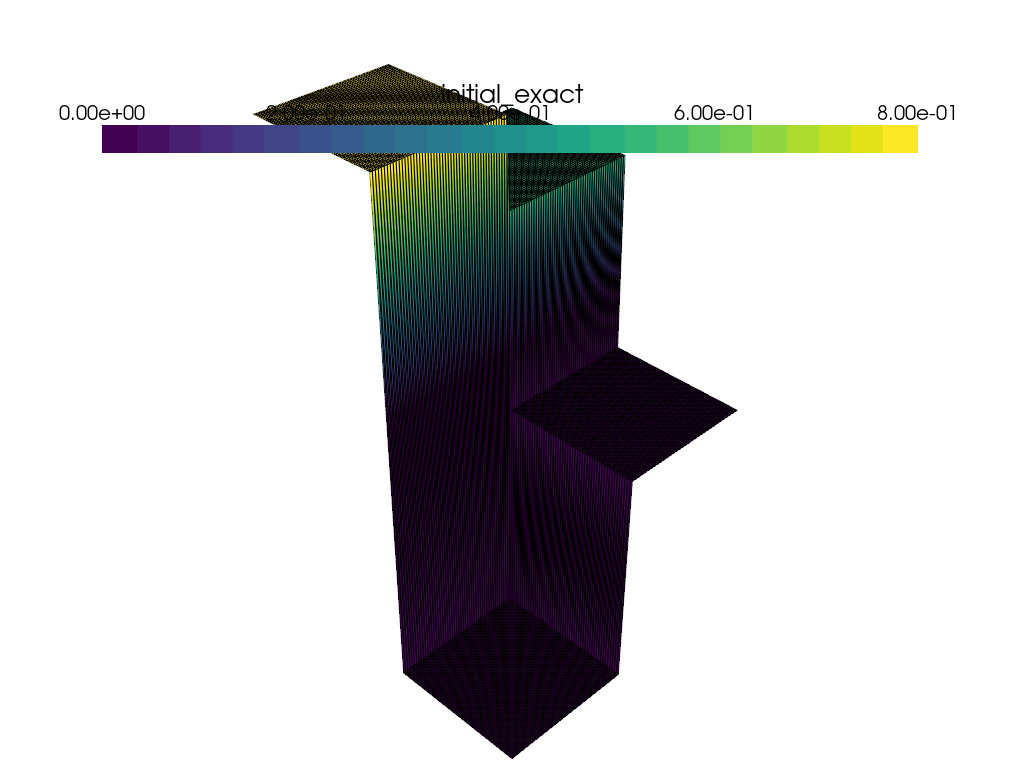
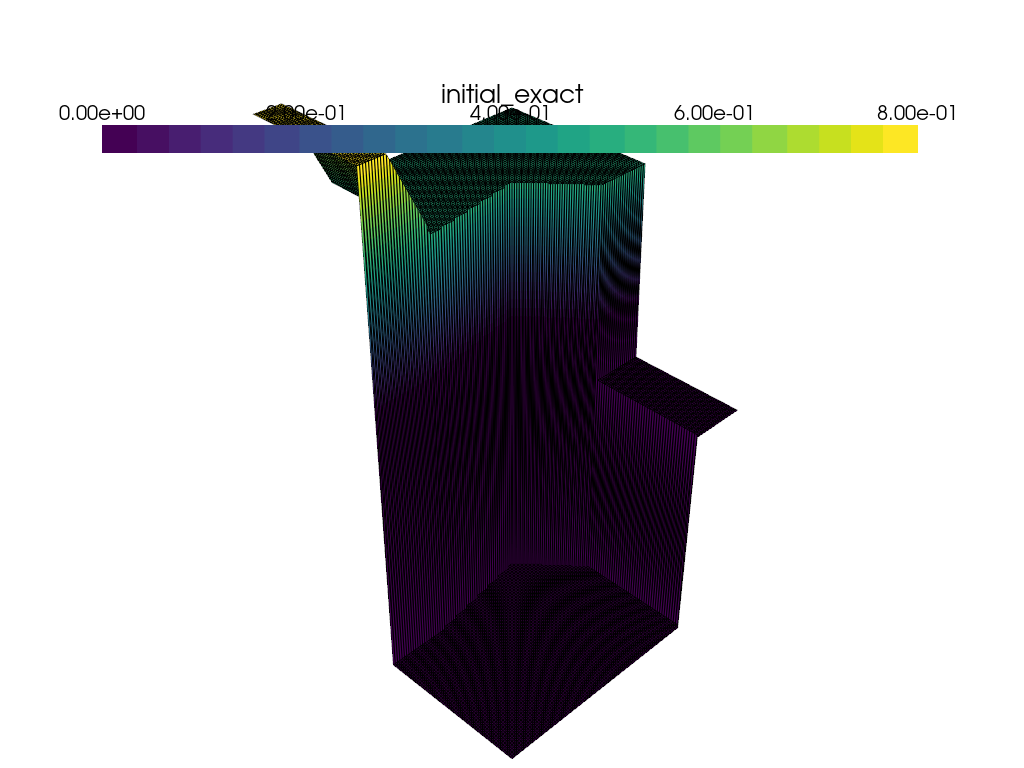
Fixes

Changed region(s): [[0.2812, 0.0625, 0.6875, 0.875]]

diff --git a/Code/Nonlinear/Burgers_equation/burger_smoothness.py b/Code/Nonlinear/Burgers_equation/burger_smoothness.py
@@ -23,8 +23,6 @@ domain = mesh.create_rectangle(MPI.COMM_WORLD, [np.array([0, 0]), np.array([1, 1
 
 V = fem.functionspace(domain, ("Lagrange", 1))
 DG0 = fem.functionspace(domain, ("DG", 0))
-DG1 = fem.functionspace(domain, ("DG", 1))
-
 
 def velocity_field(u):
     # Apply nonlinear operators correctly to the scalar function u
@@ -160,17 +158,6 @@ a = ufl.inner(ufl.grad(u), ufl.grad(v)) * ufl.dx
 A = assemble_matrix(fem.form(a), bcs=[bc])
 A.assemble()
 
-F = (uh*v *ufl.dx -
-     u_n*v *ufl.dx + 
-     0.5*dt*ufl.dot(velocity_field(uh), ufl.grad(uh))*v*ufl.dx + 
-     0.5*dt*ufl.dot(velocity_field(u_n), ufl.grad(u_n))*v*ufl.dx)
-
-
-nonlin_problem = NonlinearProblem(F, uh, bcs = [bc])
-nonlin_solver = NewtonSolver(MPI.COMM_WORLD, nonlin_problem)
-nonlin_solver.max_it = 100  # Increase maximum number of iterations
-nonlin_solver.rtol = 1e-4
-nonlin_solver.report = True
 if PLOT:
     # pyvista.start_xvfb()
 
@@ -219,21 +206,7 @@ L_h = h_DG * v * ufl.dx
 lin_problem = LinearProblem(a_h, L_h, petsc_options={"ksp_type": "preonly", "pc_type": "lu"})
 h_CG = lin_problem.solve() # returns dolfinx.fem.Function
 
-
-#Take GFEM STEP
-t += dt
-n, converged = nonlin_solver.solve(uh)
-assert (converged)
-# uh.x.scatter_forward()
-
-# Update solution at previous time step (u_n)
-u_n.x.array[:] = uh.x.array
-# Write solution to file
-# xdmf.write_function(uh, t)
-
-
-
-for i in tqdm(range(num_steps -1)):
+for i in range(num_steps):
     t += dt
 
     epsilon = fem.Function(V)
@@ -291,10 +264,10 @@ for i in tqdm(range(num_steps -1)):
 
 pde.plot_2d(domain, 100, epsilon, 'Espilon', 'epsilon_2d', location="Output")
 
-pde.plot_solution(domain, u_exact, "exact_solution", "Exact Solution")
+pde.plot_solution(domain, 100, u_exact, "exact_solution", "Exact Solution", location="Output")
 
 u_exact.interpolate(initial_condition)
-pde.plot_solution(domain, u_exact, "initial_exact", "Initial Exact")
+pde.plot_solution(domain, 100, u_exact, "initial_exact", "Initial Exact", location="Output")
 
 
 print(f'Error: {np.abs(u_exact.x.array - uh.x.array)}')

diff --git a/Code/Nonlinear/Burgers_equation/exact_burger.py b/Code/Nonlinear/Burgers_equation/exact_burger.py
@@ -285,7 +285,6 @@ for i in range(num_steps -1):
 location = "./Figures"
 pde.plot_solution(domain, 100, u_exact, "exact_solution", "Exact Solution", location)
 
-u_exact.interpolate(initial_condition)
 pde.plot_solution(domain, 100, u_exact, "initial_exact", "Initial Exact", location)
 
 pde.plot_2d(domain, 100, epsilon, 'Espilon', 'epsilon_2d', location=location)
